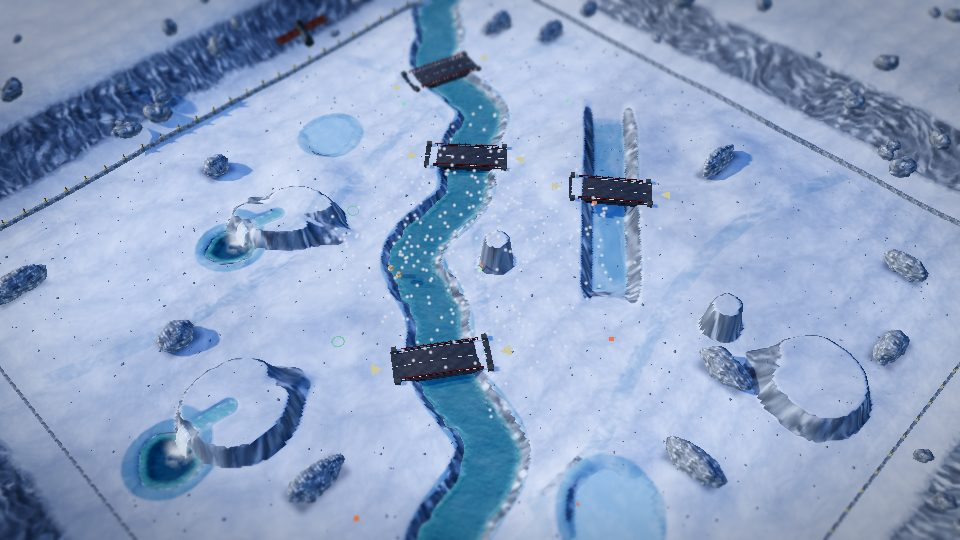
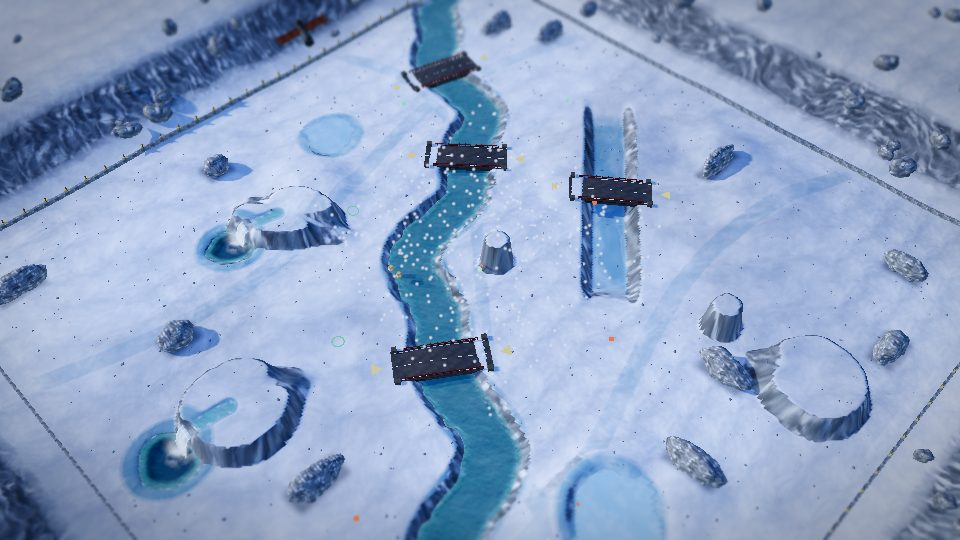
Foundry: seamless cliffs and molten channels, soft road edges
Rust plate drops its tread studs and panel seams, the foundry's molten
channels get their own slag texture with drawn-out veins instead of the
cellular lava crust, and roads fade out near gorges, water and cliffs
instead of cutting off along the vertex grid.

Claude-Session: https://claude.ai/code/session_01CQuBPP2YhEir8auLZDwnvK

diff --git a/src/environment.ts b/src/environment.ts
@@ -60,14 +60,15 @@ const recipes:Record<string,(size:number)=>Layer>={
  sand:size=>bakeLayer(size,(u,v)=>{const w=fbm(u,v,3,4,11),ripple=.5+.5*Math.sin(TAU*(v*9+u*2+w*2.8)),dune=fbm(u,v,2,3,5);return .24+.3*Math.pow(ripple,1.4)*(.3+.7*dune)+.34*fbm(u,v,10,3,29)+.12*vnoise(u*96,v*96,96,3);},(h,u,v)=>ramp([rgb(0x8f7150),rgb(0xb5946a),rgb(0xcfb288),rgb(0xe2cca4)],h*.7+.3*fbm(u,v,5,3,77)),3,.94,10,.5),
  drytrack:size=>bakeLayer(size,(u,v)=>{const [f1,f2]=worley(u,v,9,21),plate=smooth((f2-f1)/.09),[p1]=worley(u,v,34,5);return plate*(.5+.3*fbm(u,v,12,3,8))+.14*(1-Math.min(1,p1*1.6))+.06*vnoise(u*128,v*128,128,2);},(h,u,v)=>ramp([rgb(0x4d3c2c),rgb(0x7f6548),rgb(0xa08462),rgb(0xb89c7a)],h*.8+.2*fbm(u,v,4,3,31)),7,.9,6,.25),
  sandstone:size=>bakeLayer(size,(u,v)=>{const n=fbm(u,v,3,6,41),ridged=1-Math.abs(2*n-1),strata=.5+.5*Math.sin(TAU*(v*7+n*1.6));const [f1,f2]=worley(u,v,5,71);return .5*ridged+.25*strata+.15*fbm(u,v,16,3,6)+.1*smooth((f2-f1)/.05);},(h,u,v)=>{const band=.5+.5*Math.sin(TAU*(v*7+fbm(u,v,3,6,41)*1.6));return mix3(ramp([rgb(0x60483a),rgb(0x93705a),rgb(0xb38e6c),rgb(0xceac88)],h),rgb(0xa0604a),band*.28);},8,.86,9,.2),
- concrete:size=>bakeLayer(size,(u,v)=>{const [p1]=worley(u,v,44,13);return .62+.22*(fbm(u,v,3,5,9)-.5)+.12*(fbm(u,v,12,3,19)-.5)-(p1<.08?.22*(1-p1/.08):0);},(h,u,v)=>{const stain=fbm(u,v,2,5,23),oil=smooth((fbm(u,v,3,4,88)-.64)/.14);return mix3(ramp([rgb(0x3a3d40),rgb(0x5f6264),rgb(0x7d7f7c),rgb(0x96958e)],h*.45+stain*.55),rgb(0x23211f),oil*.5);},2.5,.82,16,.6),
+ concrete:size=>bakeLayer(size,(u,v)=>{const [p1]=worley(u,v,44,13);return .62+.22*(fbm(u,v,3,5,9)-.5)+.12*(fbm(u,v,12,3,19)-.5)-(p1<.06?.1*(1-p1/.06):0);},(h,u,v)=>{const stain=fbm(u,v,2,5,23),oil=smooth((fbm(u,v,3,4,88)-.64)/.14);return mix3(ramp([rgb(0x3a3d40),rgb(0x5f6264),rgb(0x7d7f7c),rgb(0x96958e)],h*.45+stain*.55),rgb(0x23211f),oil*.5);},2.5,.82,16,.6),
  asphalt:size=>bakeLayer(size,(u,v)=>{const [a1]=worley(u,v,56,3),[c1,c2]=worley(u,v,3,19);return .35+.4*Math.min(1,a1*1.5)+.15*vnoise(u*128,v*128,128,9)-(c2-c1<.014?.3:0)+.1*fbm(u,v,6,3,4);},(h,u,v)=>ramp([rgb(0x17181a),rgb(0x2c2e31),rgb(0x45474a),rgb(0x66686a)],h*.7+.3*fbm(u,v,4,4,52)),5,.68,5,0),
- rustplate:size=>bakeLayer(size,(u,v)=>{const cell=(a:number,b:number)=>{const x=((a*14)%1)-.5,y=((b*14)%1)-.5;return Math.max(0,1-Math.hypot(x*1.2+y*1.2,(x-y)*3.4)*3.2);},tread=Math.max(cell(u,v),cell(v+.5/14,1-u+.5/14)),panel=Math.min(Math.abs(((u*2)%1)-.5),Math.abs(((v*2)%1)-.5))>.488?-.4:0,rust=smooth((fbm(u,v,4,5,61)-.46)/.14);return .4+.35*smooth(tread*1.6)+panel+rust*.18*fbm(u,v,24,2,7);},(h,u,v)=>{const rust=smooth((fbm(u,v,4,5,61)-.46)/.14);return mix3(ramp([rgb(0x2c3237),rgb(0x4f585e),rgb(0x717b80)],h),ramp([rgb(0x4a2613),rgb(0x8a4a22),rgb(0xb5703a)],fbm(u,v,18,3,90)),rust*.85);},6,.55,4,0),
+ rustplate:size=>bakeLayer(size,(u,v)=>{const rust=smooth((fbm(u,v,3,5,61)-.46)/.14);return .45+.2*(fbm(u,v,6,4,17)-.5)+rust*.25*fbm(u,v,20,2,7);},(h,u,v)=>{const rust=smooth((fbm(u,v,3,5,61)-.46)/.14);return mix3(ramp([rgb(0x2c3237),rgb(0x4f585e),rgb(0x717b80)],h),ramp([rgb(0x4a2613),rgb(0x8a4a22),rgb(0xb5703a)],fbm(u,v,12,3,90)),rust*.85);},4,.55,10,.4),
  snow:size=>bakeLayer(size,(u,v)=>.25+.45*fbm(u,v,3,5,15)+.22*fbm(u,v,11,3,37)+.08*vnoise(u*128,v*128,128,6),(h,u,v)=>ramp([rgb(0xa9c3de),rgb(0xd4e3f2),rgb(0xf4f8fc),rgb(0xffffff)],h*.8+.2*fbm(u,v,6,3,44)),3.5,.72,9,.5),
  ice:size=>bakeLayer(size,(u,v)=>{const s=fbm(u,v,4,5,2),hair=1-Math.abs(2*fbm(u,v,3,4,27)-1);return .45+.3*s+.15*fbm(u,v,9,3,63)-.12*smooth((hair-.94)/.05);},(h,u,v)=>{const hair=1-Math.abs(2*fbm(u,v,3,4,27)-1),frost=smooth((fbm(u,v,4,4,81)-.5)/.25);return mix3(mix3(ramp([rgb(0x5a8aa6),rgb(0x86b6cc),rgb(0xb4d8e6)],fbm(u,v,2,5,81)),rgb(0xe4f1f7),frost*.45),rgb(0xeaf6fb),smooth((hair-.95)/.04)*.35);},2,.14,18,.6),
  frostrock:size=>bakeLayer(size,(u,v)=>{const n=fbm(u,v,3,6,47),ridged=1-Math.abs(2*n-1),strata=.5+.5*Math.sin(TAU*(v*5+n*2.2));return .5*ridged+.2*strata+.3*fbm(u,v,10,4,12);},(h,u,v)=>{const frost=smooth((h-.6)/.2)*smooth((fbm(u,v,4,3,70)-.35)/.3);return mix3(ramp([rgb(0x2a3036),rgb(0x4d555d),rgb(0x78828a),rgb(0x98a2a8)],h),rgb(0xf2f7fb),frost*.85);},7,.8,12,.45),
  ash:size=>bakeLayer(size,(u,v)=>{const [p1]=worley(u,v,30,44);return .3+.4*fbm(u,v,5,5,52)+.2*(1-Math.min(1,p1*1.7))+.1*vnoise(u*128,v*128,128,8);},(h,u,v)=>ramp([rgb(0x1f1b1a),rgb(0x3a3432),rgb(0x57504c),rgb(0x716a64)],h*.7+.3*fbm(u,v,4,4,66)),4.5,.95,8,.4),
  lavacrust:size=>bakeLayer(size,(u,v)=>{const [f1,f2]=worley(u,v,7,83),plate=smooth((f2-f1)/.07);return plate*(.55+.35*fbm(u,v,10,3,21))+.05*vnoise(u*96,v*96,96,4);},(h,u,v)=>{const [f1,f2]=worley(u,v,7,83),crack=1-smooth((f2-f1)/.05);return mix3(ramp([rgb(0x120e0d),rgb(0x2a2220),rgb(0x40332e)],h),mix3(rgb(0xff5a10),rgb(0xffd257),crack*crack),crack);},7,.8,7,.2),
+ slag:size=>bakeLayer(size,(u,v)=>{const n=fbm(u,v,3,5,83),vein=1-Math.abs(2*n-1);return .55+.35*(1-smooth((vein-.9)/.08))*(.6+.4*fbm(u,v,9,3,21));},(h,u,v)=>{const vein=1-Math.abs(2*fbm(u,v,3,5,83)-1),hot=smooth((vein-.9)/.08);return mix3(ramp([rgb(0x15100e),rgb(0x2c221e),rgb(0x41342e)],fbm(u,v,6,4,5)),mix3(rgb(0xff5a10),rgb(0xffd257),hot*hot),hot);},5,.8,8,.3),
  basalt:size=>bakeLayer(size,(u,v)=>{const n=fbm(u,v,3,6,49),ridged=1-Math.abs(2*n-1);const [f1,f2]=worley(u,v,8,37);return .45*ridged+.3*smooth((f2-f1)/.1)+.25*fbm(u,v,15,3,13);},(h,u,v)=>mix3(ramp([rgb(0x141315),rgb(0x2f2d30),rgb(0x4d4a4c),rgb(0x6a6664)],h),rgb(0x5a2a1a),smooth((fbm(u,v,4,4,77)-.55)/.2)*.5),8,.7,9,.2),
  container:size=>bakeLayer(size,(u,v)=>{const rib=.5+.5*Math.sin(TAU*u*16),scratch=fbm(u*1,v*8,8,3,14);return .3+.5*smooth(rib*1.3)+.12*(scratch-.5)+.08*fbm(u,v,20,2,3);},(h,u,v)=>{const rust=smooth((fbm(u,v,4,5,35)-.55)/.12)+smooth((v-.86)/.1)*.6;return mix3(ramp([rgb(0x86888a),rgb(0xc2c4c4),rgb(0xe4e5e3)],h*.6+.4*fbm(u,v,7,3,5)),rgb(0x6a3a1c),Math.min(1,rust)*.8);},5,.6,3,0),
 };
@@ -93,7 +94,8 @@ export function landHeight(x:number,z:number,style:number){
  // A gorge or river keeps cutting through the generated mountains beyond the wall.
  return lerp(mountain,shape,channelCut(x,z));
 }
-export const roadMask=(x:number,z:number)=>{const f=featureMask(x,z);if(f.canyon>.05||f.wet>.3||f.cliff>.4)return 0;const a=Math.min(Math.abs(x-48-Math.sin(z*.0325)*10),Math.abs(x+48-Math.sin(z*.0325)*10)),b=Math.abs(z-40*Math.sin(x*.0225));return Math.max(1-smooth((a-2.2)/1.4),1-smooth((b-2)/1.4));};
+// Roads fade out near gorges, water and cliffs; a hard cut-off stepped along the vertex grid.
+export const roadMask=(x:number,z:number)=>{const f=featureMask(x,z),fade=(1-smooth(f.canyon/.12))*(1-smooth((f.wet-.15)/.25))*(1-smooth((f.cliff-.2)/.3));if(fade<=0)return 0;const a=Math.min(Math.abs(x-48-Math.sin(z*.0325)*10),Math.abs(x+48-Math.sin(z*.0325)*10)),b=Math.abs(z-40*Math.sin(x*.0225));return fade*Math.max(1-smooth((a-2.2)/1.4),1-smooth((b-2)/1.4));};
 /** Blend weights of the three surface layers [base, track, rock] at a world position. */
 export function surfaceWeights(x:number,z:number,style:number):RGB{
  const e=.4,sx=(landHeight(x+e,z,style)-landHeight(x-e,z,style))/(2*e),sz=(landHeight(x,z+e,style)-landHeight(x,z-e,style))/(2*e),slope=Math.hypot(sx,sz),h=landHeight(x,z,style),n=worldNoise(x,z,.09,4,style+40),inside=Math.max(Math.abs(x),Math.abs(z))<ARENA;
@@ -111,7 +113,7 @@ function groundMaterial(style:number){
  const layers=layerSets[style].map(layer),look=arenaLooks[style];
  const material=new THREE.MeshStandardMaterial({roughness:1,metalness:0,map:layers[0].albedo,normalMap:layers[0].normal});
  const uniforms={tA1:{value:layers[1].albedo},tA2:{value:layers[2].albedo},tN1:{value:layers[1].normal},tN2:{value:layers[2].normal},tMacro:{value:macroTexture()},uTile:{value:new THREE.Vector3(...layers.map(l=>1/l.metres))},uWarp:{value:new THREE.Vector3(...layers.map(l=>l.warp))},uRough:{value:new THREE.Vector3(...layers.map(l=>l.roughness))},uTintA:{value:new THREE.Color(macroTints[style][0])},uTintB:{value:new THREE.Color(macroTints[style][1])},uCloud:{value:look.cloud},uGlow:{value:style===3?7:0},uAnti:{value:style===1||style===2?1:0},uTime:environmentUniforms.uTime};
- material.customProgramCacheKey=()=>'arena-ground-v4';
+ material.customProgramCacheKey=()=>'arena-ground-v5';
  material.onBeforeCompile=shader=>{Object.assign(shader.uniforms,uniforms);
   shader.vertexShader=shader.vertexShader.replace('#include <common>','#include <common>\nattribute vec3 splat;attribute float shade;varying vec3 vSplat;varying float vShade;varying vec3 vGroundPos;varying vec3 vGroundNormal;').replace('#include <begin_vertex>','#include <begin_vertex>\nvSplat=splat;vShade=shade;vGroundPos=(modelMatrix*vec4(position,1.)).xyz;vGroundNormal=normalize(mat3(modelMatrix)*normal);');
   shader.fragmentShader=shader.fragmentShader.replace('#include <common>',`#include <common>
@@ -127,7 +129,7 @@ vec3 gBlend;vec3 gTangentNormal;vec3 gGlow;float gHeight;`).replace('#include <m
  float gMix=uAnti*smoothstep(.3,.7,texture2D(tMacro,vGroundPos.xz*.0061+.53).g);vec2 uvB0=gRot*uv0*.61+.37,uvB1=gRot*uv1*.61+.37,uvB2=gRot*uv2*.61+.37;
  if(uAnti>0.){a0=mix(a0,texture2D(map,uvB0),gMix);a1=mix(a1,texture2D(tA1,uvB1),gMix);a2=mix(a2,texture2D(tA2,uvB2),gMix);}
  // Height blending: the taller layer wins near a boundary, so sand settles into cracks instead of cross-fading.
- vec3 lift=vSplat+vec3(a0.a,a1.a,a2.a)*.55;float top=max(lift.x,max(lift.y,lift.z))-.16;
+ vec3 lift=vSplat+vec3(a0.a,a1.a,a2.a)*.55;float top=max(lift.x,max(lift.y,lift.z))-mix(.16,.3,uAnti);
  gBlend=max(lift-top,0.)*step(.004,vSplat);gBlend/=max(1e-4,gBlend.x+gBlend.y+gBlend.z);
  gHeight=dot(gBlend,vec3(a0.a,a1.a,a2.a));
  vec3 albedo=a0.rgb*gBlend.x+a1.rgb*gBlend.y+a2.rgb*gBlend.z;

diff --git a/src/water.ts b/src/water.ts
@@ -30,7 +30,7 @@ const looks:Record<Fluid,Look>={
 function fluidMaterial(fluid:Fluid){const look=looks[fluid],hot=fluid==='lava'||fluid==='molten',ice=fluid==='ice';
  const material=new THREE.MeshStandardMaterial({color:0xffffff,roughness:look.rough,metalness:0,transparent:!hot&&!ice,opacity:1,envMapIntensity:ice?.8:1.4});
  if(ice){const l=layer('ice');material.map=l.albedo;material.normalMap=l.normal;material.normalScale.set(.5,.5);}else material.normalMap=rippleTexture();
- if(hot){const crust=layer('lavacrust');material.map=crust.albedo;material.emissive=new THREE.Color(look.glowColor);material.emissiveMap=crust.albedo;}
+ if(hot){const crust=layer(fluid==='molten'?'slag':'lavacrust');material.map=crust.albedo;material.emissive=new THREE.Color(look.glowColor);material.emissiveMap=crust.albedo;}
  const uniforms={uTime:environmentUniforms.uTime,uShallow:{value:new THREE.Color(look.shallow)},uDeep:{value:new THREE.Color(look.deep)},uOpacity:{value:look.opacity},uFlow:{value:look.flow},uGlow:{value:look.glow},uGlowColor:{value:new THREE.Color(look.glowColor)}};
  material.customProgramCacheKey=()=>'arena-fluid-'+fluid;
  material.onBeforeCompile=shader=>{Object.assign(shader.uniforms,uniforms);
